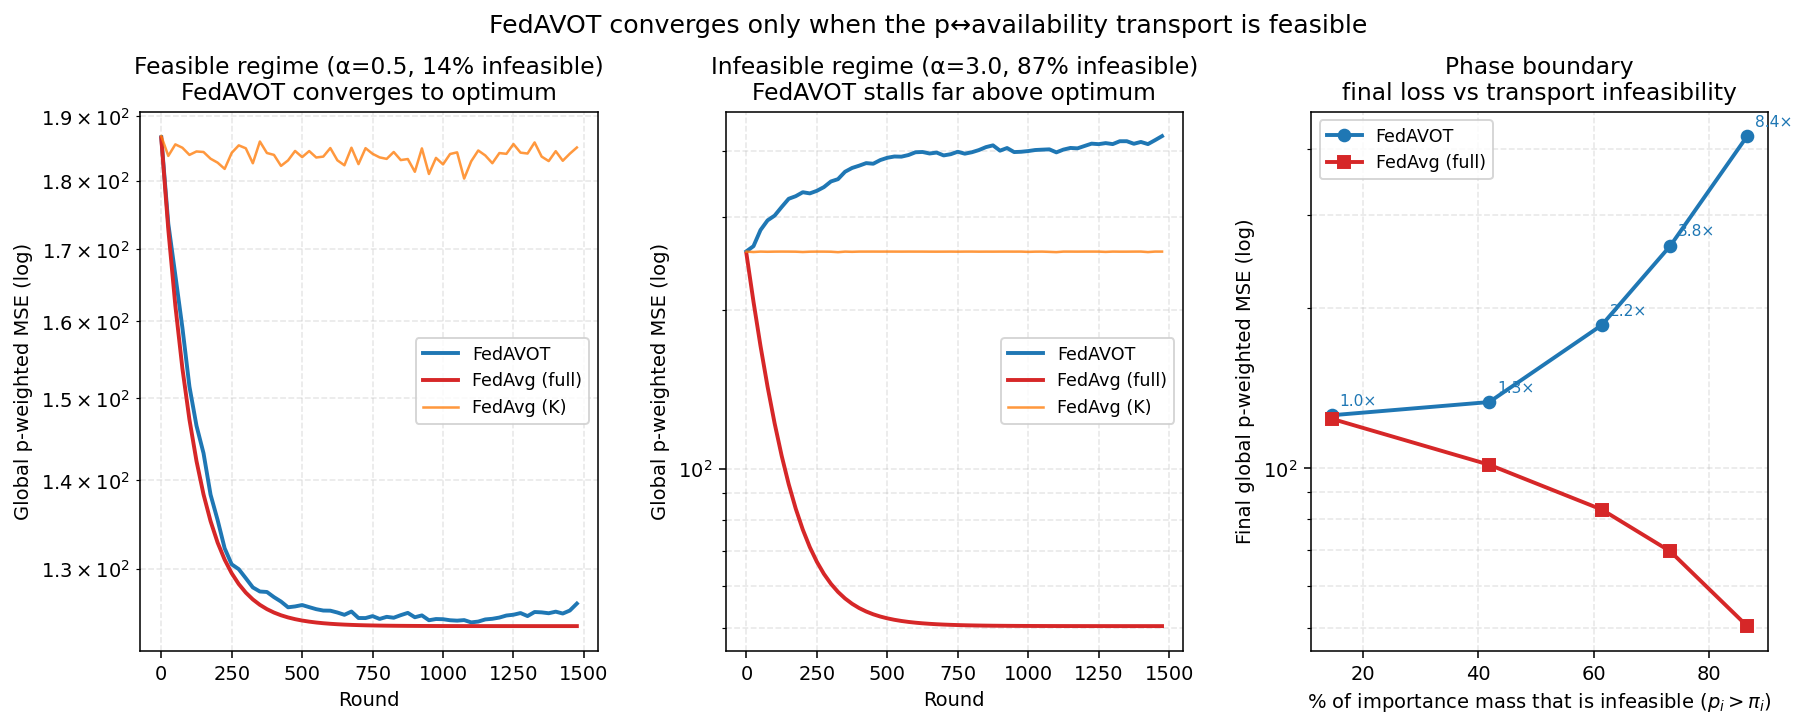
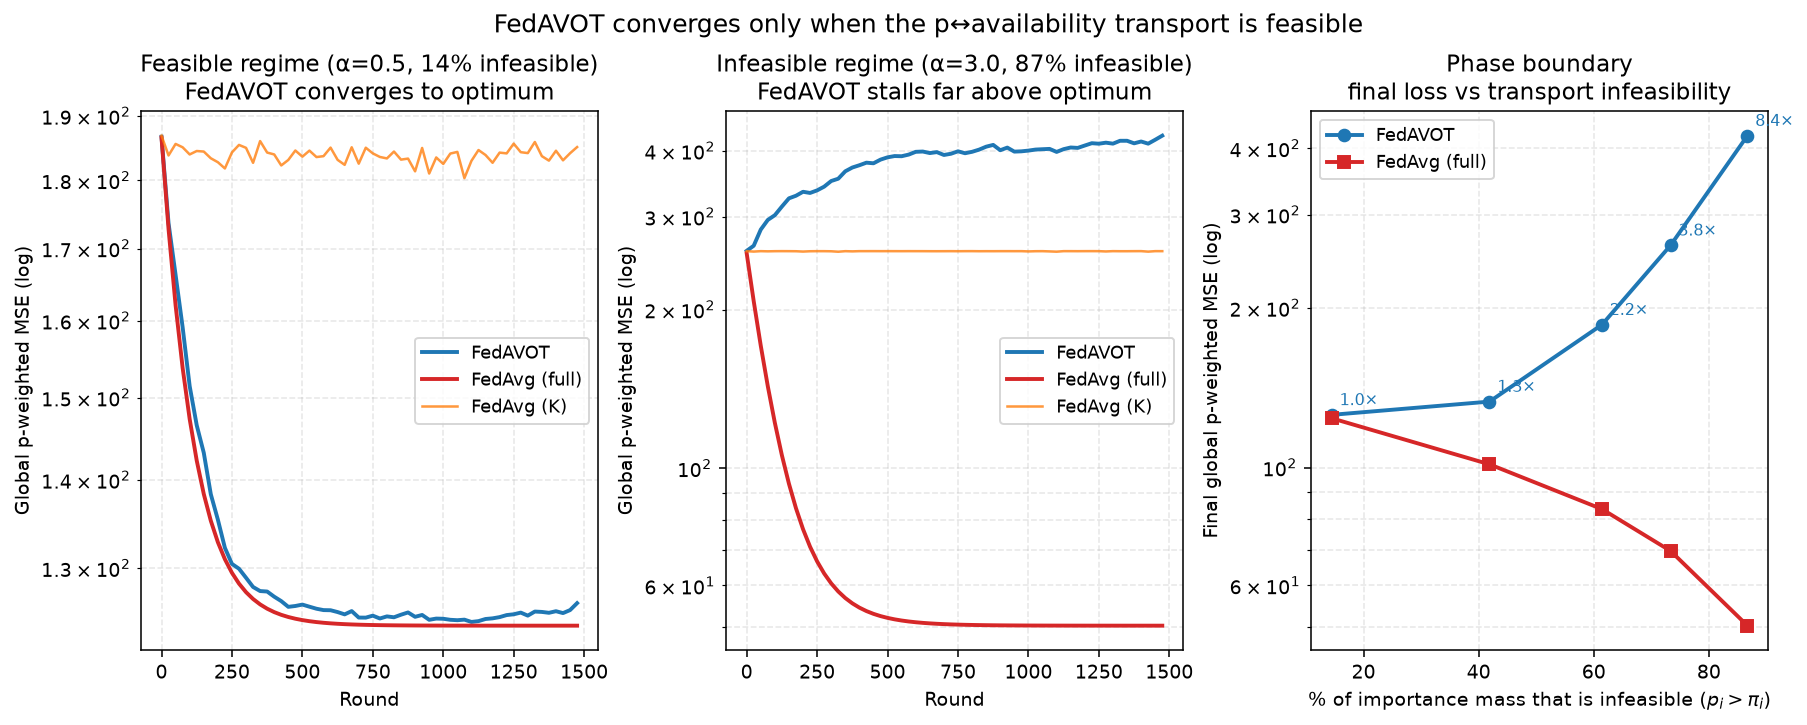
Add results section draft with paper-ready figures
- paper/experimental_results.tex: four figure environments + two results
  paragraphs in the paper notation/style, numbers verified by fresh reruns.
- scripts/imdbwiki_infeasible_4k.py: script reproduction of the notebook
  main IMDb-Wiki cell (mirrored cubic p/r) so the paper figure exists as a
  committed PDF/PNG + saved curves; reproduces FedAVOT 116.40 +- 0.53,
  FedAvg(K) 129.33 +- 0.04, FedAvg(full) 83.07.
- phase_boundary_experiment.py now also exports the PDF (sweep re-verified:
  ratio 8.40x at alpha=3, 87% infeasible mass).

diff --git a/scripts/imdbwiki_infeasible_4k.py b/scripts/imdbwiki_infeasible_4k.py
@@ -1,0 +1,253 @@
+# INFEASIBLE-regime FedAVOT on REAL IMDb-Wiki data — script reproduction of the
+# notebook's main cell (cubic mirror-image p/r, 4000 rounds, 5 seeds), created so the
+# paper figure exists as a committed PDF/PNG + saved curves instead of only living in
+# notebook output. Expected tail-500 numbers: FedAVOT ~116.4, FedAvg(K) ~129.3,
+# FedAvg(full) ~83.1.
+import numpy as np
+import pandas as pd
+import matplotlib.pyplot as plt
+from itertools import combinations
+import time
+
+# ================================================================
+# Config
+# ================================================================
+NUM_USERS = 100
+K = 3
+ROUNDS = 4000
+LOCAL_EPOCHS = 5
+SAMPLES_PER_USER = 30
+LR = 0.01
+SEEDS = [0, 1, 2, 3, 4]
+NUM_SAMPLES_FOR_Q = 1_000_000
+
+IPFP_TOL = 1e-12
+IPFP_MAX_ITERS = 1000
+TAIL = 500                      # rounds averaged for the quotable final numbers
+
+# ================================================================
+# Masked IPFP utilities (same as notebook)
+# ================================================================
+def build_mask(n, subsets):
+    M = np.zeros((n, len(subsets)), dtype=bool)
+    for j, s in enumerate(subsets):
+        for i in s:
+            M[i-1, j] = True
+    return M
+
+def initialize_Y(p, q, M):
+    Y = np.zeros_like(M, dtype=float)
+    for j in range(M.shape[1]):
+        rows = np.where(M[:, j])[0]
+        if rows.size > 0:
+            Y[rows, j] = q[j] / len(rows)
+    return Y
+
+def ipfp_masked(p, q, M, tol, max_iter):
+    Y = initialize_Y(p, q, M)
+    row_err = np.inf
+    for _ in range(max_iter):
+        Y *= (p / np.maximum(Y.sum(axis=1), 1e-12))[:, None]
+        Y *= (q / np.maximum(Y.sum(axis=0), 1e-12))[None, :]
+        row_err = np.max(np.abs(Y.sum(axis=1) - p))
+        if row_err < tol:
+            break
+    return Y, row_err
+
+def recover_T(Y, q, M):
+    T = np.zeros_like(Y)
+    for j in range(len(q)):
+        if q[j] > 0:
+            T[:, j] = Y[:, j] / q[j]
+    T[~M] = 0
+    T /= T.sum(axis=0, keepdims=True)
+    return T
+
+def solve_T(p, q, subsets):
+    M = build_mask(len(p), subsets)
+    Y, row_err = ipfp_masked(p, q, M, IPFP_TOL, IPFP_MAX_ITERS)
+    print(f"IPFP row_err = {row_err:.2e}")
+    return recover_T(Y, q, M)
+
+def column_users_and_weights(T, subsets, j):
+    rows = np.array([i-1 for i in subsets[j]])
+    w = T[rows, j]
+    w /= w.sum()
+    return rows, w
+
+# ================================================================
+# Vectorized linear-regression helpers (same as notebook)
+# ================================================================
+def batched_local_train(Xs, ys, w, epochs):
+    W = np.repeat(w[None, :], Xs.shape[0], axis=0)
+    for _ in range(epochs):
+        resid = np.einsum('msd,md->ms', Xs, W) - ys
+        grad = np.einsum('msd,ms->md', Xs, resid) / ys.shape[1]
+        W = W - LR * grad
+    return W
+
+def global_loss_vec(w, X_all, y_all, p):
+    resid = np.einsum('nsd,d->ns', X_all, w) - y_all
+    return p @ (resid ** 2).mean(axis=1)
+
+# ================================================================
+# Distributions â€” THE ONE CHANGE vs the notebook:
+# p unchanged (cubic, high mass on low-index clients); r now ALIGNED with p
+# (linear skew, same direction) instead of the cubic mirror image.
+# ================================================================
+def make_distributions(N):
+    idx = np.arange(1, N+1)
+    p = idx[::-1]**3            # unchanged importance
+    r = (idx**3).astype(float)  # notebook original: cubic MIRROR image -> infeasible
+    return p/p.sum(), r/r.sum()
+
+def all_K_subsets_1based(N, K):
+    return list(combinations(range(1, N+1), K))
+
+def estimate_q(subsets, r, N, K, samples, rng):
+    lookup = {s: i for i, s in enumerate(subsets)}
+    counts = np.zeros(len(subsets))
+    logr = np.log(r)
+    done = 0
+    while done < samples:
+        b = min(50_000, samples - done)
+        g = rng.gumbel(size=(b, N)) + logr[None, :]
+        tk = np.argpartition(-g, K, axis=1)[:, :K]
+        tk.sort(axis=1)
+        for row in tk + 1:
+            counts[lookup[tuple(row.tolist())]] += 1
+        done += b
+    return counts / counts.sum()
+
+def inclusion_probs(r, N, K, samples, rng):
+    g = rng.gumbel(size=(samples, N)) + np.log(r)[None, :]
+    tk = np.argpartition(-g, K, axis=1)[:, :K]
+    incl = np.zeros(N)
+    np.add.at(incl, tk.ravel(), 1)
+    return incl / samples
+
+# ================================================================
+# Data (identical to notebook)
+# ================================================================
+df = pd.read_csv("data/imdb_wiki.csv")
+df = df[df["split"] == "train"]
+df["client_id"] = df["path"].str.extract(r"(nm\d+)")
+groups = [g for _, g in df.groupby("client_id") if len(g) >= SAMPLES_PER_USER]
+groups = groups[:NUM_USERS]
+
+EMB = np.load("data/imdb_embeddings.npy", allow_pickle=True).item()
+DIM = next(iter(EMB.values())).shape[0]
+print(f"embedding DIM = {DIM}, clients = {len(groups)}")
+
+p, r = make_distributions(NUM_USERS)
+
+# feasibility check: p_i <= pi_i must hold for ALL clients in this regime
+pi = inclusion_probs(r, NUM_USERS, K, 500_000, np.random.RandomState(0))
+infeas_mask = p > pi
+print(f"infeasible clients: {infeas_mask.sum()}/{NUM_USERS}, "
+      f"infeasible p-mass = {p[infeas_mask].sum()*100:.2f}%, "
+      f"max p_i/pi_i = {np.max(p/np.maximum(pi, 1e-12)):.3f}")
+
+subsets = all_K_subsets_1based(NUM_USERS, K)
+t0 = time.time()
+rng_q = np.random.RandomState(0)
+q = estimate_q(subsets, r, NUM_USERS, K, NUM_SAMPLES_FOR_Q, rng_q)
+q = (q + 1e-12) / np.sum(q)
+print(f"estimate_q done in {time.time()-t0:.0f}s")
+T = solve_T(p, q, subsets)
+q_cum = np.cumsum(q)
+
+# ================================================================
+# Training
+# ================================================================
+all_fedot, all_faK, all_full = [], [], []
+for seed in SEEDS:
+    t0 = time.time()
+    rng = np.random.RandomState(seed)
+
+    X_full = np.concatenate([np.stack([EMB[pth] for pth in g["path"].values[:SAMPLES_PER_USER]])
+                             for g in groups])
+    y_full = np.concatenate([g["age"].values[:SAMPLES_PER_USER] for g in groups]).astype(float)
+    y_full -= y_full.mean()
+
+    X_all = X_full.reshape(NUM_USERS, SAMPLES_PER_USER, DIM)
+    y_all = y_full.reshape(NUM_USERS, SAMPLES_PER_USER)
+
+    w_ot = np.zeros(DIM); w_k = np.zeros(DIM); w_f = np.zeros(DIM)
+    L_ot, L_k, L_f = [], [], []
+    K_CAP = 1e12; k_diverged = False   # freeze FedAvg(K) once it diverges: its fixed
+    for _ in range(ROUNDS):            # (N/K)*p_i scaling explodes under aligned r,
+        j = np.searchsorted(q_cum, rng.rand())  # and would overflow to NaN by ~round 200
+        users, weights = column_users_and_weights(T, subsets, j)
+
+        w_ot = weights @ batched_local_train(X_all[users], y_all[users], w_ot, LOCAL_EPOCHS)
+        L_ot.append(global_loss_vec(w_ot, X_all, y_all, p))
+
+        if not k_diverged:
+            M_k = batched_local_train(X_all[users], y_all[users], w_k, LOCAL_EPOCHS)
+            w_k = (NUM_USERS / K) * (p[users] @ M_k)
+            lk = global_loss_vec(w_k, X_all, y_all, p)
+            if not np.isfinite(lk) or lk > K_CAP:
+                lk = K_CAP; k_diverged = True
+        else:
+            lk = K_CAP
+        L_k.append(lk)
+
+        w_f = p @ batched_local_train(X_all, y_all, w_f, LOCAL_EPOCHS)
+        L_f.append(global_loss_vec(w_f, X_all, y_all, p))
+
+    all_fedot.append(L_ot); all_faK.append(L_k); all_full.append(L_f)
+    print(f"seed {seed}: {time.time()-t0:.0f}s, tail-{TAIL} MSE "
+          f"AVOT={np.mean(L_ot[-TAIL:]):.2f} K={np.mean(L_k[-TAIL:]):.2f} full={np.mean(L_f[-TAIL:]):.2f}")
+
+def tail_stats(L):
+    per_seed = [np.mean(s[-TAIL:]) for s in L]
+    return np.mean(per_seed), np.std(per_seed)
+
+m_ot, s_ot = tail_stats(all_fedot)
+m_k, s_k = tail_stats(all_faK)
+m_f, s_f = tail_stats(all_full)
+print(f"\nFINAL (tail-{TAIL} mean over {len(SEEDS)} seeds): "
+      f"FedAVOT {m_ot:.2f} Â± {s_ot:.2f} | FedAvg(K) {m_k:.2f} Â± {s_k:.2f} | FedAvg(full) {m_f:.2f} Â± {s_f:.2f}")
+
+# ================================================================
+# Figure
+# ================================================================
+np.savez(f"data/imdbwiki_infeasible_K{K}_{ROUNDS}rounds_curves.npz",
+         fedot=np.array(all_fedot), faK=np.array(all_faK), full=np.array(all_full),
+         p=p, r=r, pi=pi)   # raw curves saved so the plot can be tweaked without retraining
+
+def plot_curve(ax, L, label, color, band=True):
+    mean = np.mean(L, axis=0); std = np.std(L, axis=0)
+    x = np.arange(len(mean))
+    ax.plot(x, mean, label=label, color=color)
+    if band:
+        ax.fill_between(x, np.maximum(mean-std, 1e-3), mean+std, color=color, alpha=0.15)
+
+fig, ax = plt.subplots(figsize=(10, 6))
+plot_curve(ax, all_fedot, f"FedAVOT (K={K})", "tab:blue")
+# FedAvg(K)'s fixed (N/K)*p_i debiasing assumes uniform participation; under
+# availability-aligned sampling it is mis-scaled (~3.7x per round) and diverges.
+# Draw its mean without a std band (the band smears on a log axis once it blows
+# up) and keep the y-limits tight around the converging curves, so the orange
+# curve simply exits through the top of the axes.
+plot_curve(ax, all_faK, f"FedAvg (K={K})", "tab:orange", band=False)
+plot_curve(ax, all_full, "FedAvg (full)", "tab:red")
+ax.set_yscale("log")
+lo = 0.85 * min(np.mean(all_fedot, axis=0).min(), np.mean(all_full, axis=0).min())
+hi = 1.35 * max(np.mean(all_fedot, axis=0).max(), np.mean(all_full, axis=0).max())
+ax.set_ylim(lo, hi)
+if np.mean(all_faK, axis=0).max() > hi:
+    ax.annotate("FedAvg(K) diverges (off scale):\nfixed N/K scaling assumes uniform participation",
+                xy=(0.02, 0.97), xycoords="axes fraction", va="top",
+                fontsize=9, color="tab:orange",
+                arrowprops=None)
+ax.set_xlabel("Round"); ax.set_ylabel("Global p-weighted MSE (log)")
+ax.set_title(f"IMDb-Wiki (real embeddings), INFEASIBLE availability (mirrored cubic r), "
+             f"{ROUNDS} rounds, {len(SEEDS)} seeds\n"
+             f"88% of importance mass unreachable — FedAVOT and FedAvg(K) plateau above FedAvg(full)")
+ax.legend(); ax.grid(alpha=0.3)
+fig.savefig(f"figures/imdbwiki_infeasible_K{K}_{ROUNDS}rounds.png", dpi=140, bbox_inches="tight")
+fig.savefig(f"figures/imdbwiki_infeasible_K{K}_{ROUNDS}rounds.pdf", bbox_inches="tight")
+print(f"saved figures/imdbwiki_infeasible_K{K}_{ROUNDS}rounds.png")
+

diff --git a/paper/experimental_results.tex b/paper/experimental_results.tex
@@ -1,0 +1,94 @@
+% Results paragraphs + figure blocks — drafted 2026-07-11, companion to
+% experimental_setup.tex (same notation; prose \paragraph style).
+% Upload these PDFs from figures/ to the Overleaf:
+%   imdbwiki_infeasible_K3_4000rounds.pdf   imdbwiki_feasible_K3_5000rounds.pdf
+%   fedavot_phase_boundary.pdf              fedavot_mechanism.pdf
+% Note: the PDFs currently carry their in-image titles (working style); if the
+% camera-ready should be title-free (captions only), the scripts can regenerate
+% them without titles in one line each.
+
+% ---------------------------------------------------------------- figures
+\begin{figure}[t]
+  \centering
+  \includegraphics[width=\linewidth]{imdbwiki_infeasible_K3_4000rounds.pdf}
+  \caption{IMDb-Wiki age regression under the mirrored (infeasible)
+  availability regime ($r_i \propto i^3$ vs.\ $p_i \propto (N{+}1{-}i)^3$;
+  $5$ seeds, shaded $\pm 1$ std). FedAVOT improves over partial-participation
+  FedAvg but both plateau far above full participation: $88\%$ of the
+  importance mass rests on users whose inclusion probability is below their
+  importance, which no aggregation rule can recover.}
+  \label{fig:imdb-infeasible}
+\end{figure}
+
+\begin{figure}[t]
+  \centering
+  \includegraphics[width=\linewidth]{imdbwiki_feasible_K3_5000rounds.pdf}
+  \caption{IMDb-Wiki under the aligned (feasible) availability regime
+  ($r_i \propto N{+}1{-}i$), $5000$ rounds. With $p_i \le \pi_i$ satisfied
+  for all users, FedAVOT converges to the full-participation objective value
+  and remains stable; FedAvg with $K$ users diverges, as its fixed $N/K$
+  debiasing presumes uniform participation.}
+  \label{fig:imdb-feasible}
+\end{figure}
+
+\begin{figure*}[t]
+  \centering
+  \includegraphics[width=\textwidth]{fedavot_phase_boundary.pdf}
+  \caption{Synthetic feasibility sweep. Left/center: loss trajectories in a
+  feasible ($\alpha=0.5$) and an infeasible ($\alpha=3$) regime. Right:
+  final loss versus the fraction of importance mass violating
+  $p_i \le \pi_i$; FedAVOT's degradation relative to full participation
+  (annotated ratios) grows with the infeasible mass.}
+  \label{fig:phase}
+\end{figure*}
+
+\begin{figure}[t]
+  \centering
+  \includegraphics[width=\linewidth]{fedavot_mechanism.pdf}
+  \caption{Mechanism of the failure. In the feasible regime ($\alpha=0.2$)
+  Sinkhorn scaling matches the importance marginal to machine precision and
+  every user receives its target weight; in the infeasible regime
+  ($\alpha=3$) the row-marginal error stalls and high-importance users are
+  pinned at their inclusion-probability ceiling $\pi_i$, leaving $78\%$ of
+  the importance mass undeliverable.}
+  \label{fig:mechanism}
+\end{figure}
+
+% ---------------------------------------------------------------- results prose
+\paragraph{Results on IMDb-Wiki}
+The two availability regimes bracket the feasibility condition and produce
+qualitatively different outcomes (Figs.~\ref{fig:imdb-infeasible}
+and~\ref{fig:imdb-feasible}). In the mirrored regime the transport problem
+is infeasible for $41$ of $100$ users holding ${\approx}88\%$ of the
+importance mass, and Sinkhorn scaling cannot match the importance marginal
+(row-marginal error ${\approx}4\times10^{-2}$ at termination). FedAVOT
+still improves over partial-participation FedAvg — final
+importance-weighted MSE $116.40 \pm 0.53$ versus $129.33 \pm 0.04$ — but
+both plateau far above the full-participation reference ($83.07$): the mass
+assigned to users who are effectively never sampled acts as an
+irreducible floor, independent of the aggregation rule. In the aligned
+regime the same importance distribution becomes fully feasible, Sinkhorn
+converges (row-marginal error ${\approx}5\times10^{-9}$), and FedAVOT
+attains $88.82 \pm 0.19$, approaching the full-participation value and
+remaining stable through round $5000$; the residual offset is consistent
+with the sampling variance of $K=3$ users per round at a fixed step size.
+Notably, FedAvg with $K$ users \emph{diverges} in this regime: its fixed
+$N/K$ debiasing presumes uniform participation, and under
+availability-aligned sampling the realized aggregation weights exceed unity
+in expectation, exponentially amplifying the iterates. FedAVOT is immune by
+construction, since each column of $Y$ is a convex combination.
+
+\paragraph{Results of the Synthetic Sweep}
+The controlled study (Fig.~\ref{fig:phase}) confirms that feasibility — not
+the aggregation rule — governs convergence. When the transport is feasible
+FedAVOT tracks full participation (final-loss ratio $1.01$ at $\alpha=0.5$
+over $5000$ rounds), while its final loss degrades monotonically as the
+infeasible importance mass grows, up to $8.4\times$ the full-participation
+loss at $\alpha=3$ (${\approx}87\%$ infeasible mass).
+Fig.~\ref{fig:mechanism} exposes the mechanism: in the feasible regime the
+row-marginal error decays to ${\sim}10^{-10}$ within $56$ Sinkhorn
+iterations and the achieved user weights sit on the diagonal against their
+targets, whereas in the infeasible regime the error stalls at
+${\sim}8\times10^{-2}$ and every violating user is pinned at its inclusion
+probability $\pi_i < p_i$ — the undeliverable $78\%$ of the importance
+mass accounts quantitatively for the loss floor observed in training.

diff --git a/scripts/phase_boundary_experiment.py b/scripts/phase_boundary_experiment.py
@@ -158,4 +158,5 @@ for a, xi in zip(ALPHAS, infeas):
 
 fig.suptitle("FedAVOT converges only when the p↔availability transport is feasible", fontsize=13, y=1.02)
 fig.savefig("figures/fedavot_phase_boundary.png", dpi=140, bbox_inches="tight")
+fig.savefig("figures/fedavot_phase_boundary.pdf", bbox_inches="tight")
 print("saved figures/fedavot_phase_boundary.png")